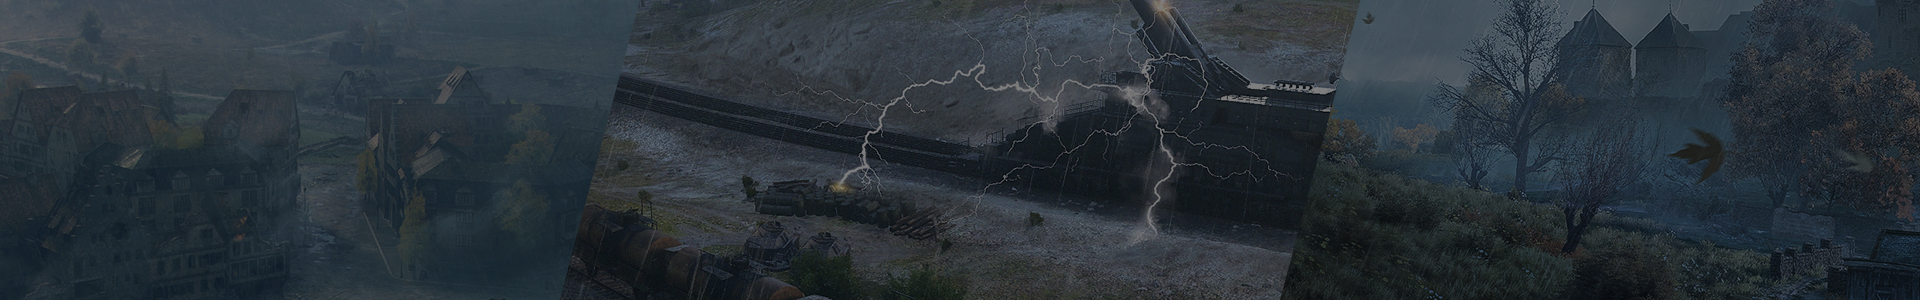
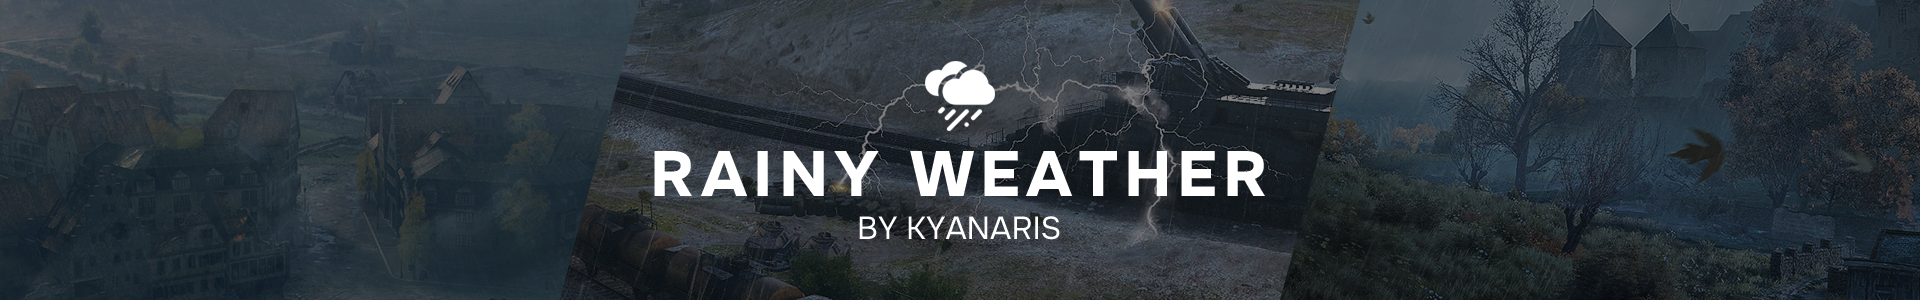
Update

Changed region(s): [[0.3438, 0.48, 0.6562, 0.66], [0.4688, 0.21, 0.5312, 0.42], [0.4375, 0.72, 0.5625, 0.81]]

diff --git a/index.html b/index.html
@@ -17,8 +17,6 @@
     </nav>
   </header>
   <section class="hero">
-    <img src="img/rainyweather/icontitlerainyweather.png" alt="Rain Icon">
-    <h1>RAINY WEATHER</h1>
   </section>
   <section class="content">
     <h2>Данная модификация переносит эффект дождя из режима «Ваффентрагера: Реванш» прямо в обычные сражения мира танков!</h2>

diff --git a/style.css b/style.css
@@ -78,13 +78,6 @@ nav {
   margin-bottom: 20px;
 }
 
-.hero h1 {
-  font-size: 42px;
-  letter-spacing: 4px;
-  font-weight: 700;
-  color: var(--color-text-main);
-}
-
 .content {
   max-width: 800px;
   margin: 50px auto;
